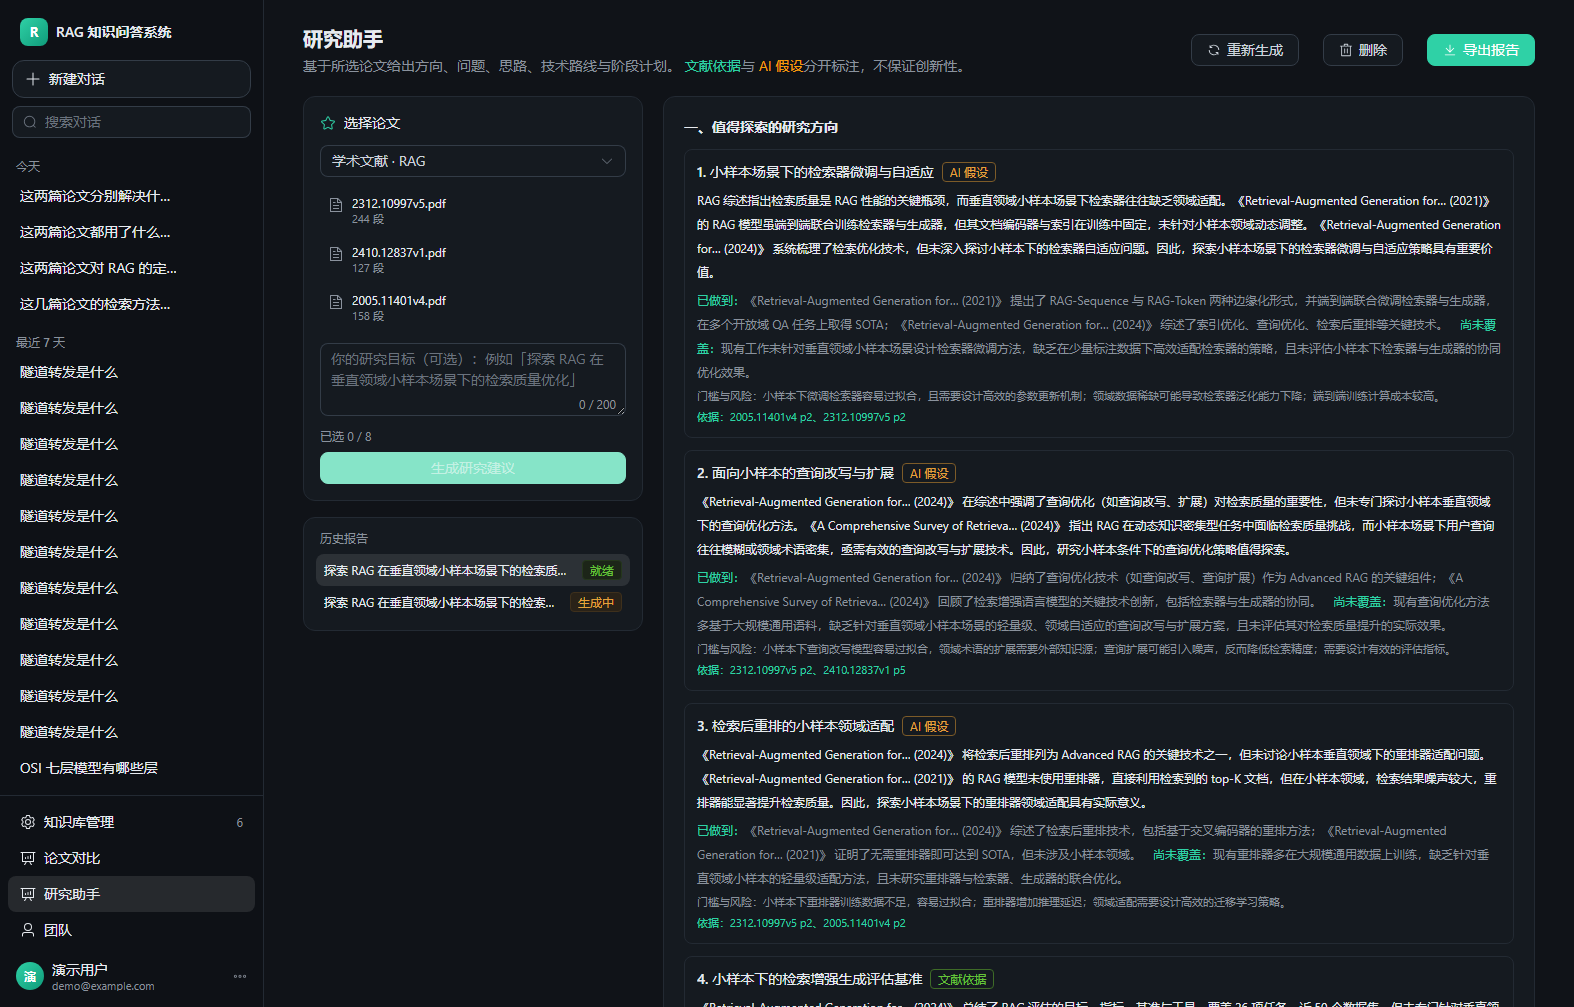
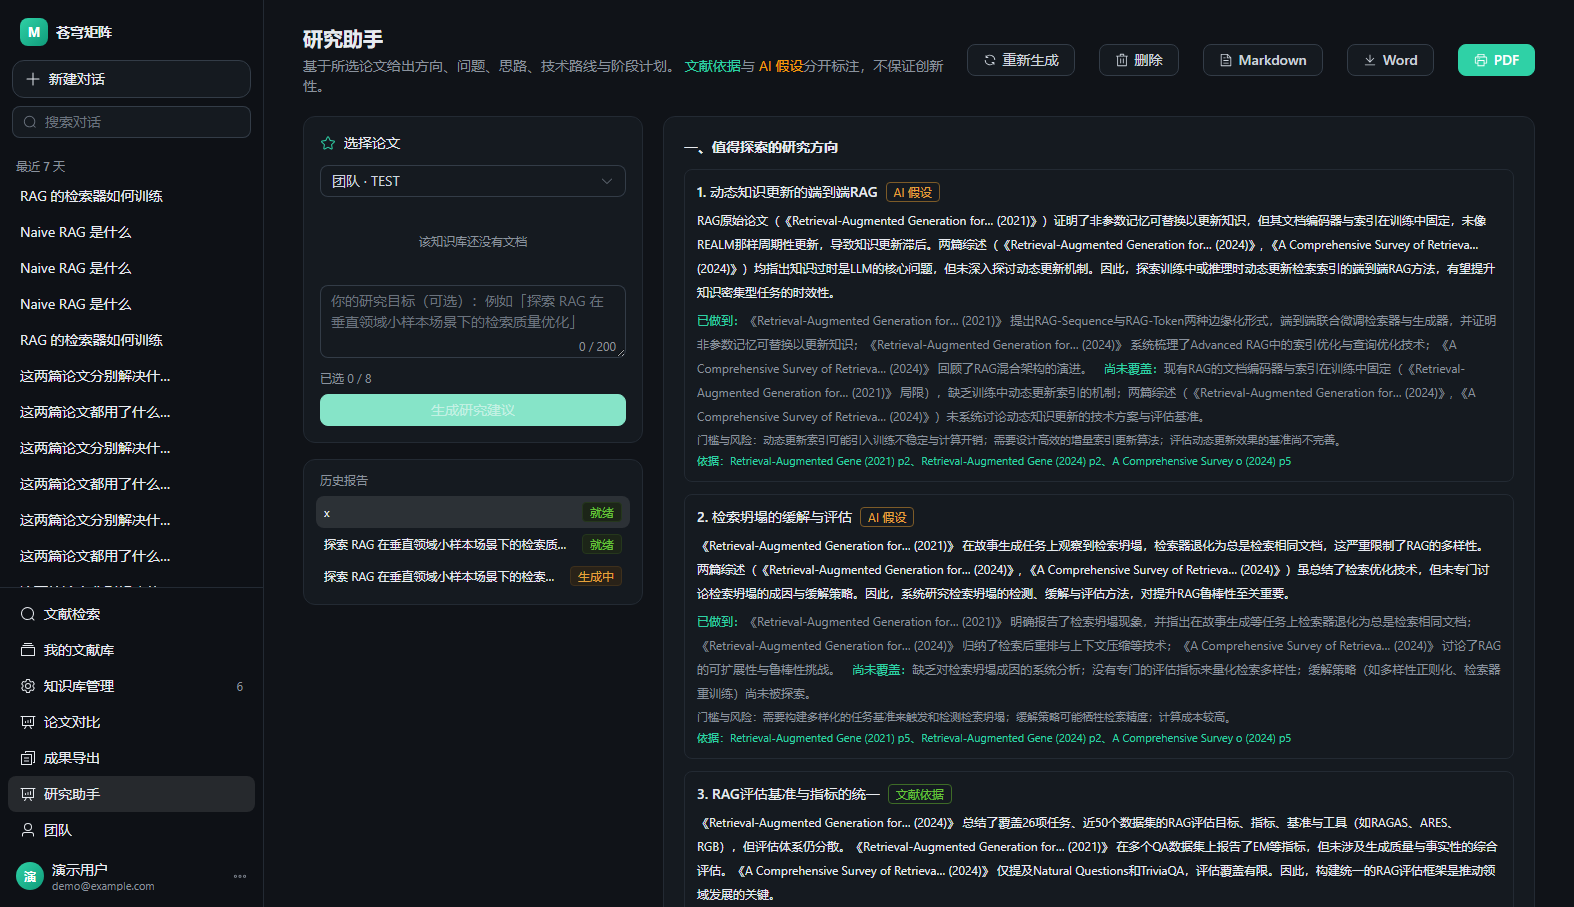
feat(research): 研究助手支持 Word / PDF 导出，并修掉证据出处显示成 doc_xxx
## 1. 三种导出

原来只有一个「导出报告」按钮（只能下 Markdown）。
新增 `GET /api/research/briefs/{id}/export?format=md|docx|html`，
与研究助手共用模块八的转换（`reports.to_docx` / `reports.to_html`），
保证两条链路排版一致：

| 格式 | 实现 |
| --- | --- |
| Markdown | 原样 |
| **Word** | python-docx，真 DOCX（标题/列表/表格/引用块都还原） |
| **PDF** | 打印视图 + 浏览器「另存为 PDF」 |

前端按钮从 1 个变成 3 个：Markdown / Word / PDF。

实测：md 23.9KB、docx 45.5KB（ZIP 头 PK）、html 27KB；
非法格式返回 422。

## 2. 证据出处显示成 `doc_9wql p2`

研究助手的历史报告打开时，左侧知识库可能是空的（`documents` 列表为空），
`paperName()` 于是退化成 `documentId.slice(0,10)`，界面上出现
`依据：doc_9wql p2、doc_4vza p2` —— 用户完全看不懂。

修法：
- `paperName()` 优先用论文卡片里的标题（新增 `paperMeta` 缓存）
- `ensurePaperMeta()` 用 `getPaperProfile(id, {silent:true})` 补标题，
  打开报告与报告变为 ready 时各触发一次
- 标题带年份：`Retrieval-Augmented Gene (2021) p2` —— 否则两篇同前缀的论文分不清

## 验证

- `npm run build` 通过
- 三种导出实测通过（见上）
- 截图 docs/screenshots/research/01-研究助手-方向.png 已更新

diff --git a/client/src/views/ResearchView.vue b/client/src/views/ResearchView.vue
@@ -1,8 +1,9 @@
 <script setup>
 import { computed, onMounted, onUnmounted, ref, watch } from 'vue'
 import { ElMessage, ElMessageBox } from 'element-plus'
-import { Delete, Download, Document, Refresh, Right, Star } from '@element-plus/icons-vue'
+import { Delete, Download, Document, Printer, Refresh, Right, Star } from '@element-plus/icons-vue'
 
+import { getPaperProfile } from '@/api/compare'
 import { listDocuments } from '@/api/knowledge'
 import { useKnowledgeStore } from '@/stores/knowledge'
 import { useResearchStore } from '@/stores/research'
@@ -56,8 +57,58 @@ function evidenceText(item) {
 }
 
 function paperName(documentId) {
+  // 优先用论文卡片里的标题（历史报告打开时 documents 列表可能是空的），
+  // 其次用当前知识库里的文件名，最后才退化成 id 片段。
+  const meta = paperMeta.value[documentId]
+  if (meta?.title) {
+    // 带上年份：同名前缀的论文（如两篇 RAG 主题）否则分不清
+    const short = meta.title.split(':')[0].slice(0, 24)
+    return meta.year ? `${short} (${meta.year})` : short
+  }
   const doc = documents.value.find((item) => item.id === documentId)
-  return doc ? doc.name.replace(/\.pdf$/i, '').slice(0, 24) : documentId.slice(0, 8)
+  if (doc) return doc.name.replace(/\.pdf$/i, '').slice(0, 24)
+  return documentId.slice(0, 10)
+}
+
+/** 论文标题缓存（documentId → {title, year}），用于证据出处显示 */
+const paperMeta = ref({})
+
+async function ensurePaperMeta(ids) {
+  const missing = (ids || []).filter((id) => id && !paperMeta.value[id])
+  await Promise.all(
+    missing.map(async (id) => {
+      try {
+        const profile = await getPaperProfile(id, { silent: true })
+        paperMeta.value[id] = { title: profile.title, year: profile.year }
+      } catch {
+        // 卡片不存在属正常（历史报告 / 换库），用 id 兜底即可
+        paperMeta.value[id] = { title: '', year: 0 }
+      }
+    }),
+  )
+}
+
+/** 从当前报告的所有证据里收集 documentId，补标题 */
+function collectEvidenceIds(brief) {
+  const ids = new Set()
+  const sections = [brief?.directions, brief?.questions]
+  for (const section of sections) {
+    for (const item of section || []) {
+      for (const ev of item?.evidence || []) {
+        if (ev?.documentId) ids.add(ev.documentId)
+      }
+    }
+  }
+  for (const item of brief?.novelty?.coverage || []) {
+    for (const ev of item?.evidence || []) if (ev?.documentId) ids.add(ev.documentId)
+  }
+  for (const item of brief?.novelty?.openings || []) {
+    for (const ev of item?.evidence || []) if (ev?.documentId) ids.add(ev.documentId)
+  }
+  for (const group of brief?.relatedWork?.groups || []) {
+    for (const ev of group?.evidence || []) if (ev?.documentId) ids.add(ev.documentId)
+  }
+  return [...ids]
 }
 
 async function loadDocuments() {
@@ -107,6 +158,7 @@ async function startResearch() {
 async function openBrief(item) {
   try {
     await researchStore.open(item.id)
+    await ensurePaperMeta(collectEvidenceIds(researchStore.current))
   } catch (error) {
     notifyError(error, '打开失败')
   }
@@ -137,15 +189,32 @@ async function removeCurrent() {
   ElMessage.success('已删除')
 }
 
-async function exportReport() {
+async function download(format) {
   if (!current.value) return
   try {
-    await researchStore.exportReport(current.value.id, current.value.goal || '研究辅助报告')
-    ElMessage.success('报告已开始下载')
+    await researchStore.exportFile(current.value.id, format, current.value.goal || '研究辅助报告')
+    ElMessage.success(format === 'docx' ? 'Word 已开始下载' : 'Markdown 已开始下载')
   } catch (error) {
     notifyError(error, '导出失败')
   }
 }
+
+async function printPdf() {
+  if (!current.value) return
+  try {
+    await researchStore.exportPdf(current.value.id)
+    ElMessage.info('已打开打印视图：目标选「另存为 PDF」即可')
+  } catch (error) {
+    notifyError(error, '打开打印视图失败')
+  }
+}
+
+watch(
+  () => current.value?.status,
+  (status) => {
+    if (status === 'ready') ensurePaperMeta(collectEvidenceIds(current.value))
+  },
+)
 
 watch(baseId, loadDocuments)
 
@@ -178,7 +247,9 @@ onUnmounted(() => {
         <template v-if="ready">
           <el-button :icon="Refresh" @click="rerun">重新生成</el-button>
           <el-button :icon="Delete" @click="removeCurrent">删除</el-button>
-          <el-button type="primary" :icon="Download" @click="exportReport">导出报告</el-button>
+          <el-button :icon="Document" @click="download('md')">Markdown</el-button>
+          <el-button :icon="Download" @click="download('docx')">Word</el-button>
+          <el-button type="primary" :icon="Printer" @click="printPdf">PDF</el-button>
         </template>
       </header>
 

diff --git a/client/src/stores/research.js b/client/src/stores/research.js
@@ -4,7 +4,8 @@ import { defineStore } from 'pinia'
 import {
   createBrief,
   deleteBrief,
-  downloadReport,
+  downloadExport,
+  fetchPrintHtml,
   getBrief,
   listBriefs,
   rerunBrief,
@@ -99,17 +100,50 @@ export const useResearchStore = defineStore('research', () => {
     }
   }
 
-  async function exportReport(id, title) {
-    const response = await downloadReport(id)
-    const blob = new Blob([response.data], { type: 'text/markdown;charset=utf-8' })
+  function saveBlob(blob, filename) {
     const url = URL.createObjectURL(blob)
     const link = document.createElement('a')
     link.href = url
-    link.download = `${(title || '研究辅助报告').slice(0, 40)}.md`
+    link.download = filename
     document.body.appendChild(link)
     link.click()
     link.remove()
     URL.revokeObjectURL(url)
+  }
+
+  /** 导出 md / docx */
+  async function exportFile(id, format, title) {
+    const response = await downloadExport(id, format)
+    const type =
+      format === 'docx'
+        ? 'application/vnd.openxmlformats-officedocument.wordprocessingml.document'
+        : 'text/markdown;charset=utf-8'
+    const name = `${(title || '研究辅助报告').slice(0, 40)}.${format}`
+    saveBlob(new Blob([response.data], { type }), name)
+  }
+
+  /**
+   * 导出 PDF：后端给一份打印专用 HTML，前端打开后调起浏览器打印，
+   * 用户选「另存为 PDF」。与「成果导出」用同一套做法（服务端没有 PDF 库）。
+   */
+  async function exportPdf(id) {
+    const response = await fetchPrintHtml(id)
+    const html = typeof response.data === 'string' ? response.data : await response.data.text()
+    const win = window.open('', '_blank')
+    if (!win) {
+      throw new Error('浏览器拦截了弹窗，请允许本页面弹出窗口后重试')
+    }
+    win.document.open()
+    win.document.write(html)
+    win.document.close()
+    setTimeout(() => {
+      try {
+        win.focus()
+        win.print()
+      } catch (error) {
+        console.warn('打印调用失败', error)
+      }
+    }, 600)
   }
 
   function reset() {
@@ -129,7 +163,8 @@ export const useResearchStore = defineStore('research', () => {
     open,
     rerun,
     remove,
-    exportReport,
+    exportFile,
+    exportPdf,
     reset,
     stopPolling,
   }

diff --git a/client/src/api/research.js b/client/src/api/research.js
@@ -28,3 +28,21 @@ export function downloadReport(id) {
     rawResponse: true,
   })
 }
+
+/** 导出 md / docx */
+export function downloadExport(id, format) {
+  return request.get(`/research/briefs/${id}/export`, {
+    params: { format },
+    responseType: 'blob',
+    rawResponse: true,
+  })
+}
+
+/** 取打印用 HTML（PDF 由浏览器「另存为 PDF」生成） */
+export function fetchPrintHtml(id) {
+  return request.get(`/research/briefs/${id}/export`, {
+    params: { format: 'html' },
+    responseType: 'text',
+    rawResponse: true,
+  })
+}

diff --git a/server/app/api/research.py b/server/app/api/research.py
@@ -5,17 +5,19 @@
 """
 from __future__ import annotations
 
+import io
 import json
 import logging
 from pathlib import Path
+from urllib.parse import quote
 
-from fastapi import APIRouter, HTTPException, Response, status
+from fastapi import APIRouter, HTTPException, Query, Response, status
 from sqlalchemy import select
 
 from app.api.deps import CurrentUser, DbSession
 from app.models import Document, KnowledgeBase, ResearchBrief
 from app.schemas import OkOut, ResearchBriefCreateIn, ResearchBriefOut
-from app.services import access, research
+from app.services import access, reports, research
 from app.tasks import dispatch_research
 
 logger = logging.getLogger(__name__)
@@ -191,5 +193,62 @@ async def download_report(
         media_type="text/markdown; charset=utf-8",
         headers={
             "Content-Disposition": f'attachment; filename="research-{brief.id}.md"'
+        },
+    )
+
+
+@router.get("/briefs/{brief_id}/export")
+async def export_brief(
+    brief_id: str,
+    user: CurrentUser,
+    db: DbSession,
+    format: str = Query("md", pattern="^(md|docx|html)$"),
+) -> Response:
+    """导出研究辅助报告：md / docx / html（html 用于浏览器打印成 PDF）。
+
+    与「成果导出」（模块八）共用 ``reports.to_docx`` / ``reports.to_html``，
+    保证两条链路排版一致；PDF 仍走「打印视图 + 另存为 PDF」。
+    """
+    brief = await _owned(db, brief_id, user.id)
+    if not brief.report_md:
+        raise HTTPException(
+            status_code=status.HTTP_409_CONFLICT,
+            detail="报告尚未生成（任务可能还在进行或已失败）",
+        )
+
+    title = brief.goal or "研究辅助报告"
+    safe_title = "".join(ch for ch in title if ch not in '\\/:*?"<>|')[:60] or "research"
+
+    if format == "md":
+        return Response(
+            content=brief.report_md.encode("utf-8"),
+            media_type="text/markdown; charset=utf-8",
+            headers={
+                "Content-Disposition": f"attachment; filename*=UTF-8''{quote(safe_title)}.md"
+            },
+        )
+
+    if format == "html":
+        return Response(
+            content=reports.to_html(brief.report_md, title).encode("utf-8"),
+            media_type="text/html; charset=utf-8",
+        )
+
+    try:
+        document = reports.to_docx(brief.report_md, title)
+        buffer = io.BytesIO()
+        document.save(buffer)
+    except Exception as exc:  # noqa: BLE001
+        logger.exception("研究助手 DOCX 生成失败 %s", brief_id)
+        raise HTTPException(
+            status_code=status.HTTP_500_INTERNAL_SERVER_ERROR,
+            detail=f"DOCX 生成失败：{exc}",
+        ) from exc
+
+    return Response(
+        content=buffer.getvalue(),
+        media_type="application/vnd.openxmlformats-officedocument.wordprocessingml.document",
+        headers={
+            "Content-Disposition": f"attachment; filename*=UTF-8''{quote(safe_title)}.docx"
         },
     )
